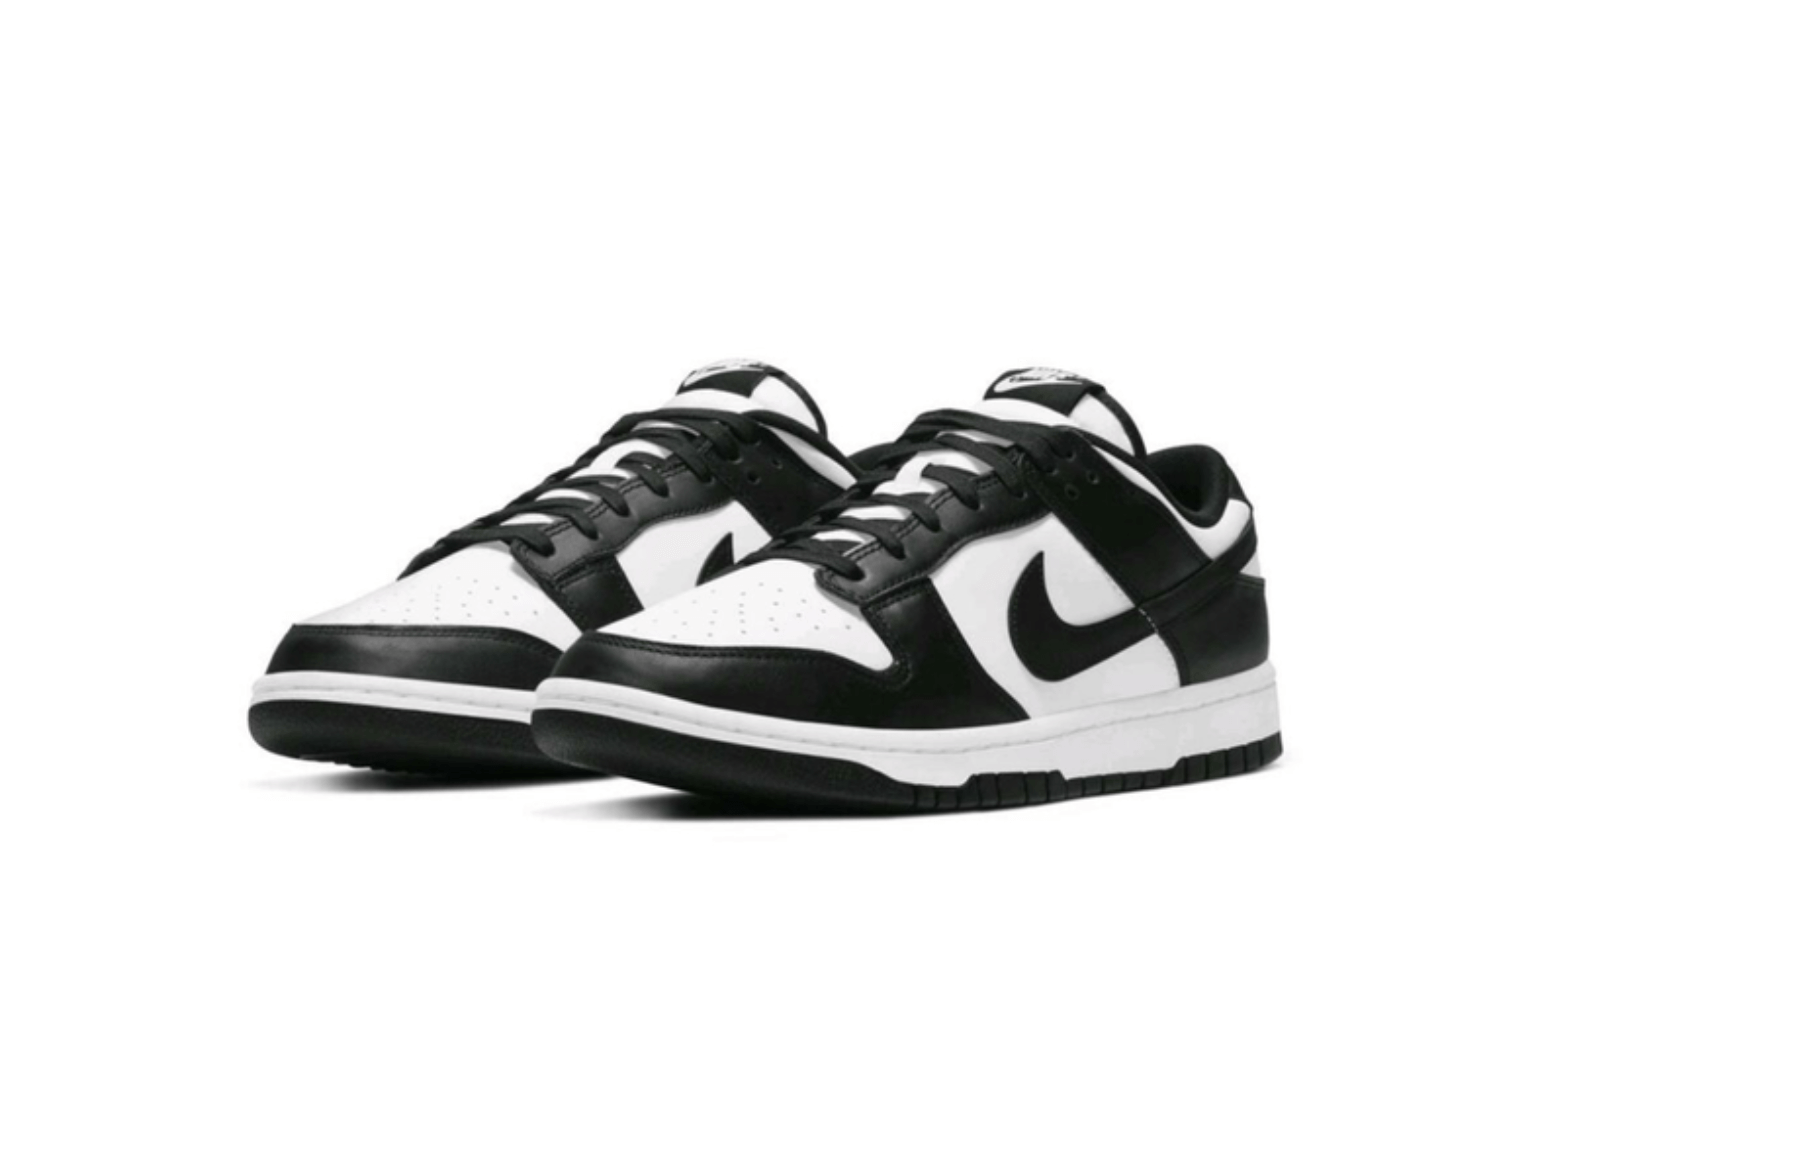
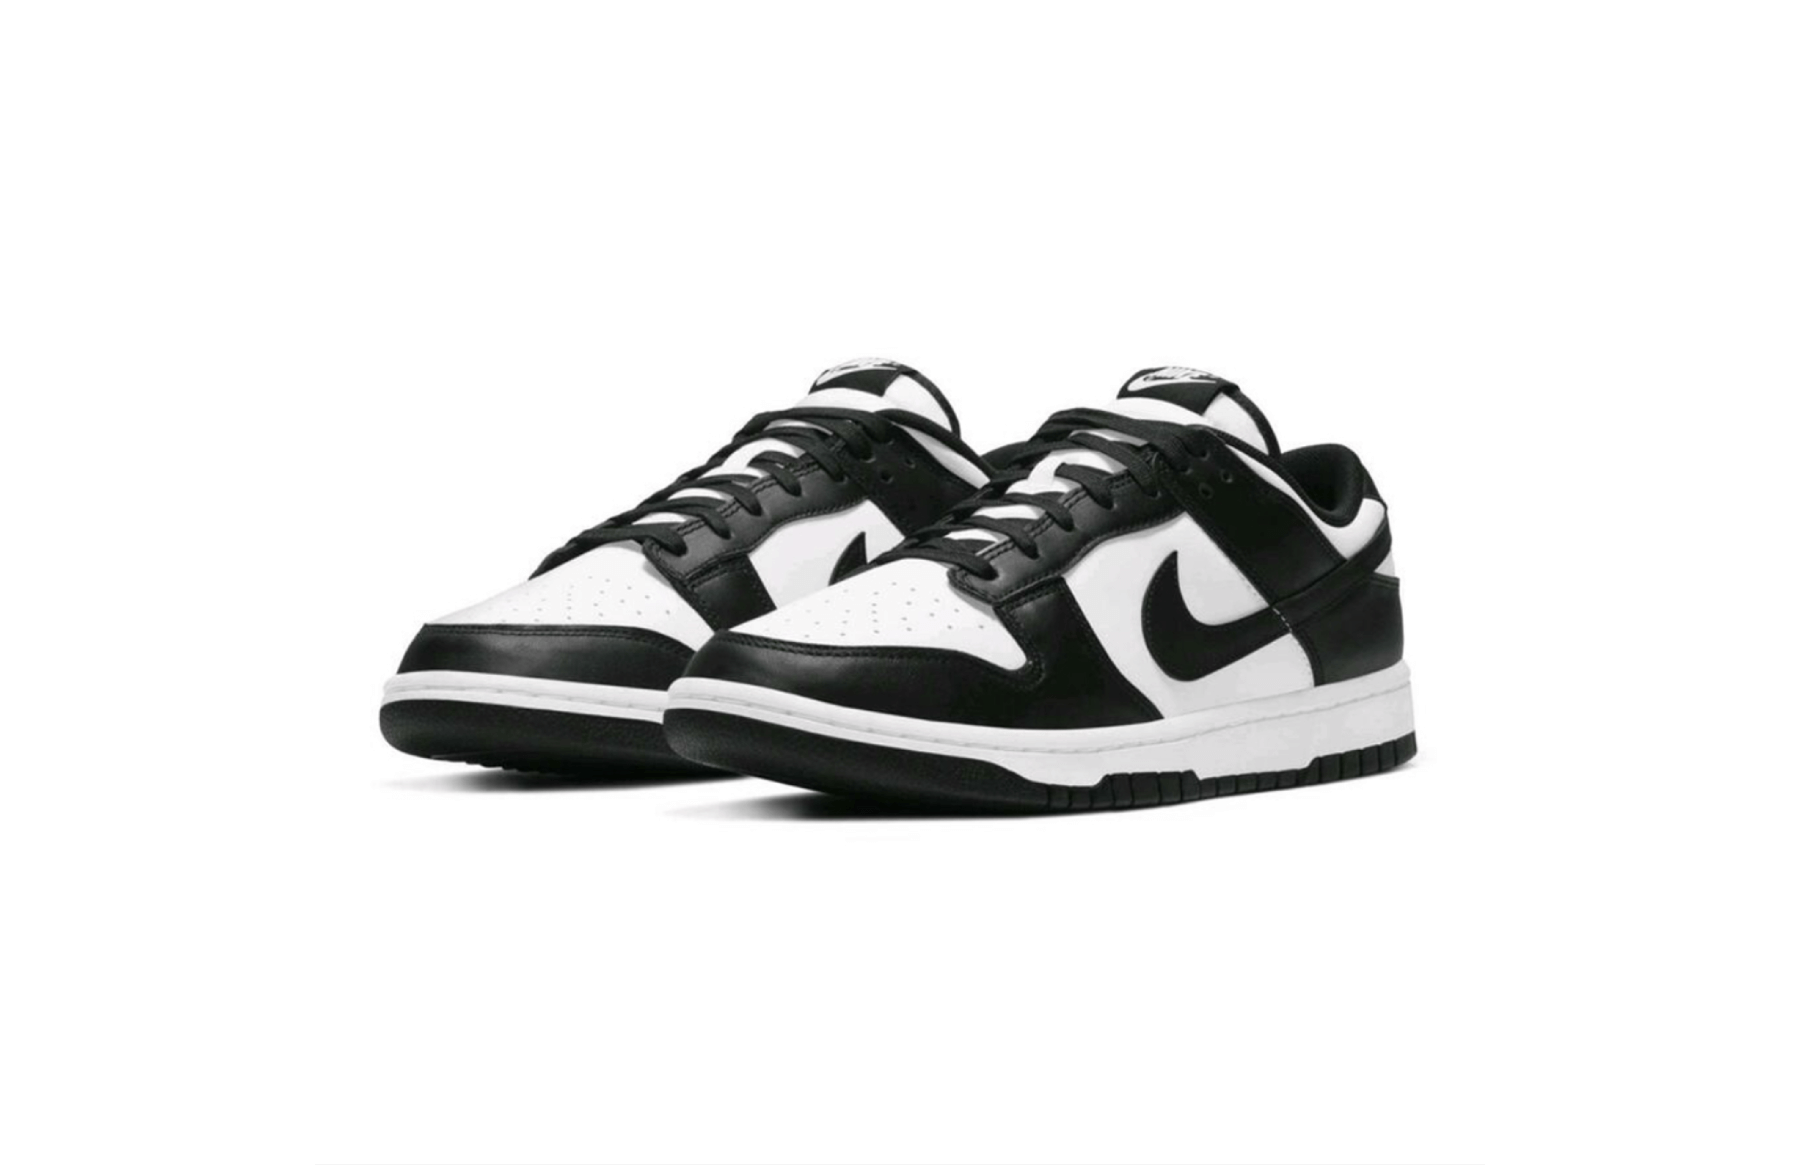
Modify all homepage sections, and added items in the HomeSlider

Changed region(s): [[0.1244, 0.309, 0.8089, 0.7107]]

diff --git a/components/HomeSlider.vue b/components/HomeSlider.vue
@@ -1,31 +1,34 @@
 <template>
-  <div>
-    <VueSlickCarousel class="mb-4 bg-brand-slate" v-bind="slickSettings">
-      <div
-        class="grid w-full grid-cols-12 bg-gray-700"
-      >
-        <div class="col-span-12 md:col-span-5">
+  <VueSlickCarousel class="mb-4 bg-brand-slate" v-bind="slickSettings">
+    <div
+      v-for="slider in sliders"
+      :key="slider.id"
+      class="grid w-full grid-cols-12 bg-gray-700"
+    >
+      <div class="col-span-12 md:col-span-5">
+        <div
+          class="mx-auto h-full w-full text-center"
+        >
           <div
-            class="mx-auto w-full max-w-[380px] text-center sm:px-[20px]"
+            class="flex flex-col items-center
+            justify-center"
           >
-            <div
-              class="flex flex-col flex-wrap items-center
-              justify-center py-24"
-            >
-              <div
-                class="mb-[25px] h-[400px] w-full
-                bg-[url('/img/hero/2.jpg')]
-                bg-cover bg-no-repeat sm:h-[500px]"
-              />
+            <img
+              :src="`/img/hero/${slider.path}`"
+              class="mb-[25px] w-full object-cover
+               object-center sm:h-screen"
+              alt=""
+            />
+            <div class="h-[20vh] py-3 sm:px-5">
               <h2
                 class="
                 my-3 text-base font-normal
                 uppercase tracking-[1px]
                 text-white sm:text-2xl"
               >
-              Giuseppe Zanotti Square Logo
+                {{ slider.title }}
               </h2>
-              <NuxtLink to="/shop">
+              <NuxtLink to="/shop" class="my-3 mb-11">
                 <BaseButtonLight
                   class="
                     w-full
@@ -44,94 +47,8 @@
           </div>
         </div>
       </div>
-      <div
-        class="grid w-full grid-cols-12 bg-orange-600"
-      >
-        <div class="col-span-12">
-          <div
-            class="mx-auto w-full max-w-[380px] text-center sm:px-[20px]"
-          >
-            <div
-              class="flex flex-col flex-wrap items-center
-              justify-center py-24"
-            >
-              <div
-                class="mb-[25px] h-[400px] w-full
-                bg-[url('/img/hero/3.jpg')]
-                bg-cover bg-no-repeat sm:h-[500px]"
-              />
-              <h2
-                class="
-                my-3 text-base font-normal
-                uppercase tracking-[1px]
-                text-white sm:text-2xl"
-              >
-              Billionaire Boys Club
-              </h2>
-              <NuxtLink to="/shop">
-                <BaseButtonLight
-                  class="
-                    w-full
-                    rounded-lg
-                    bg-white py-8 px-14
-                    uppercase
-                    text-black
-                    hover:bg-brand-slate hover:text-white
-                    focus:ring-1 focus:ring-white focus:ring-offset-2
-                  "
-                >
-                  {{ cta }}
-                </BaseButtonLight>
-              </NuxtLink>
-            </div>
-          </div>
-        </div>
-      </div>
-      <div
-        class="grid w-full grid-cols-12 bg-slate-200"
-      >
-        <div class="col-span-12">
-          <div
-            class="mx-auto w-full max-w-[380px] text-center sm:px-[20px]"
-          >
-            <div
-              class="flex flex-col flex-wrap items-center
-              justify-center py-24"
-            >
-              <div
-                class="mb-[25px] h-[400px] w-full
-                bg-[url('/img/hero/5.jpg')]
-                bg-cover bg-no-repeat sm:h-[500px]"
-              />
-              <h2
-                class="
-                my-3 text-base font-normal
-                uppercase tracking-[1px]
-                text-black sm:text-2xl"
-              >
-              Jordan 4 Retro Black
-              </h2>
-              <NuxtLink to="/shop">
-                <BaseButtonLight
-                  class="
-                    w-full
-                    rounded-lg
-                    bg-white py-8 px-14
-                    uppercase
-                    text-black
-                    hover:bg-brand-slate hover:text-white
-                    focus:ring-1 focus:ring-white focus:ring-offset-2
-                  "
-                >
-                  {{ cta }}
-                </BaseButtonLight>
-              </NuxtLink>
-            </div>
-          </div>
-        </div>
-      </div>
-    </VueSlickCarousel>
-  </div>
+    </div>
+  </VueSlickCarousel>
 </template>
 
 <script>
@@ -150,6 +67,44 @@ const slickSettings = {
   speed: 800,
   swipe: true,
   swipeToSlide: true,
+  responsive: [
+    {
+      breakpoint: 1024,
+      settings: {
+        slidesToShow: 1,
+        slidesToScroll: 1,
+        infinite: true,
+        focusOnSelect: true,
+      }
+    },
+    {
+      breakpoint: 768,
+      settings: {
+        slidesToShow: 1,
+        slidesToScroll: 1,
+        infinite: true,
+        focusOnSelect: true,
+      }
+    },
+    {
+      breakpoint: 480,
+      settings: {
+        slidesToShow: 1,
+        slidesToScroll: 1,
+        infinite: true,
+        focusOnSelect: true,
+      }
+    },
+    {
+      breakpoint: 320,
+      settings: {
+        slidesToShow: 1,
+        slidesToScroll: 1,
+        infinite: true,
+        focusOnSelect: true,
+      }
+    }
+  ]
 }
 
 export default {
@@ -161,7 +116,49 @@ export default {
       headline: 'Gold Coast\'s Finest RETAIL BOUTIQUE',
       cta: 'Browse Products',
       contentblurb: 'A BRAND NEW 1-OF-1 RETAIL STORE',
-      slickSettings
+      slickSettings,
+      sliders: [
+        {
+          id: 1,
+          path: '1.png',
+          title: 'Nike Dunk Low \'Panda\''
+        },
+        {
+          id: 2,
+          path: '2.png',
+          title: 'Jordan 4 Retro Black Canvas'
+        },
+        {
+          id: 3,
+          path: '3.png',
+          title: 'Nike Dunk Low Gym Red USC'
+        },
+        {
+          id: 4,
+          path: '4.png',
+          title: 'Jordan 1 Low Vintage Grey'
+        },
+        {
+          id: 5,
+          path: '5.png',
+          title: 'Jordan 1 Retro High OG Light Fusion Red'
+        },
+        {
+          id: 6,
+          path: '6.png',
+          title: 'Nike Dunk Low \'UCLA\''
+        },
+        {
+          id: 7,
+          path: '7.png',
+          title: 'Jordan 11 Retro Low \'Easter\' (Iridescent Emerald)'
+        },
+        {
+          id: 8,
+          path: '8.png',
+          title: 'Nike Dunk High Black White (Panda)'
+        },
+      ]
     };
   },
 };

diff --git a/pages/about-us.vue b/pages/about-us.vue
@@ -187,7 +187,9 @@
                 </small>
                 <h2
                     class="mb-9
-                    break-words text-4xl font-bold sm:pr-8 xl:pr-12"
+                    break-words text-4xl font-bold
+                    sm:pr-8
+                    xl:pr-12"
                 >
                 A True Story of the Come-Up
                 </h2>
@@ -195,7 +197,7 @@
                     <blockquote class="relative my-7">
                         <QuoteIcon />
                         <div class="relative z-10">
-                            <p class="text-gray-800 dark:text-white sm:text-xl">
+                            <p class="text-gray-800 sm:text-xl">
                             <em>
                                 It's so easy to judge someone and make
                                 assumptions without actually knowing their
@@ -206,30 +208,30 @@
                         </div>
                     </blockquote>
                     <address class="my-3">
-                        <p class="my-3 text-gray-800 dark:text-white">
+                        <p class="my-3 text-gray-800">
                             For years, I've just been doing my own thing;
                         staying in my own lane, trying to make my own path
                         to success.
                         </p>
-                        <p class="my-3 text-gray-800 dark:text-white">
+                        <p class="my-3 text-gray-800">
                             I try avoid all distractions that do not seek to
                         better me mentally, physically, spiritually or
                         financially.
                         </p>
-                        <p class="my-3 text-gray-800 dark:text-white">
+                        <p class="my-3 text-gray-800">
                             As corny as that sounds - it's true. I don't
                         care enough to follow society or adhere to new trends,
                         and so paying attention to all the garbage online
                         media puts out... sometimes I feel like ignorance is
                         bliss.
                         </p>
-                        <p class="my-3 text-gray-800 dark:text-white">
+                        <p class="my-3 text-gray-800">
                         And all that BS doesn't only come
                         from media/news channels.
                         It comes from your friends, celebrities and
                         self-proclaimed 'influencers', just to name a few.
                         </p>
-                        <p class="my-3 text-gray-800 dark:text-white">
+                        <p class="my-3 text-gray-800">
                         Especially because nothing online is real these
                         days anyway. Everything is either fake, forced,
                         edited, or set up for attention. I'm not interested in
@@ -237,7 +239,7 @@
                         </p>
                     </address>
                     <address class="my-3">
-                        <p class="text-gray-800 dark:text-white">
+                        <p class="text-gray-800">
                         Over the years I have worked really hard,
                         absorbed as much knowledge and experience
                         I can, and have invested my money into
@@ -250,7 +252,7 @@
                         </p>
                     </address>
                     <address class="my-3">
-                        <p class="text-gray-800 dark:text-white">
+                        <p class="text-gray-800">
                             Buying and selling is something I've
                         done since 12 years old. It started with
                         shirts on Gumtree, then selling Old Skool
@@ -269,7 +271,7 @@
                         </p>
                     </address>
                     <address class="my-3">
-                        <p class="text-gray-800 dark:text-white">
+                        <p class="text-gray-800">
                         My come-up is nothing without the mention of
                         my supportive parents, who have been with me
                         every step of the way. Coming from a stable household,

diff --git a/components/QuoteIcon.vue b/components/QuoteIcon.vue
@@ -1,5 +1,5 @@
 <template>
-    <svg class="absolute top-0 left-0 h-16 w-16 -translate-x-6 -translate-y-8 text-gray-100 dark:text-gray-700" width="16" height="16" viewBox="0 0 16 16" fill="none" xmlns="http://www.w3.org/2000/svg" aria-hidden="true">
+    <svg class="absolute top-0 left-0 h-16 w-16 -translate-x-6 -translate-y-8 text-gray-100" width="16" height="16" viewBox="0 0 16 16" fill="none" xmlns="http://www.w3.org/2000/svg" aria-hidden="true">
         <path
             d="M7.39762 10.3C7.39762 11.0733 7.14888 11.7
             6.6514 12.18C6.15392 12.6333 5.52552 12.86

diff --git a/pages/index.vue b/pages/index.vue
@@ -1,11 +1,8 @@
 <!-- eslint-disable vue/no-static-inline-styles -->
 <template>
   <div>
-    <HomeSliderSection
-      class="min-h-screen"
-    />
+    <HomeSliderSection />
     <BrandsSection />
-    <!-- todo: FeaturedProductsSection dynamic wip -->
     <FeaturedProductsSection />
     <ReviewSection />
     <!-- todo: BeforeFooter wip -->

diff --git a/components/FeaturedProductsSection.vue b/components/FeaturedProductsSection.vue
@@ -1,5 +1,5 @@
 <template>
-    <section id="featuredProducts" class="my-36">
+    <section id="featuredProducts" class="my-36 w-full">
         <BaseSection>
             <div class="col-span-12 my-4">
                 <h2

diff --git a/components/BrandsSection.vue b/components/BrandsSection.vue
@@ -1,6 +1,6 @@
 <template>
     <section
-        class="relative my-9 max-w-full
+        class="relative my-9 w-full
         bg-white sm:mx-6
         sm:rounded-2xl"
     >
